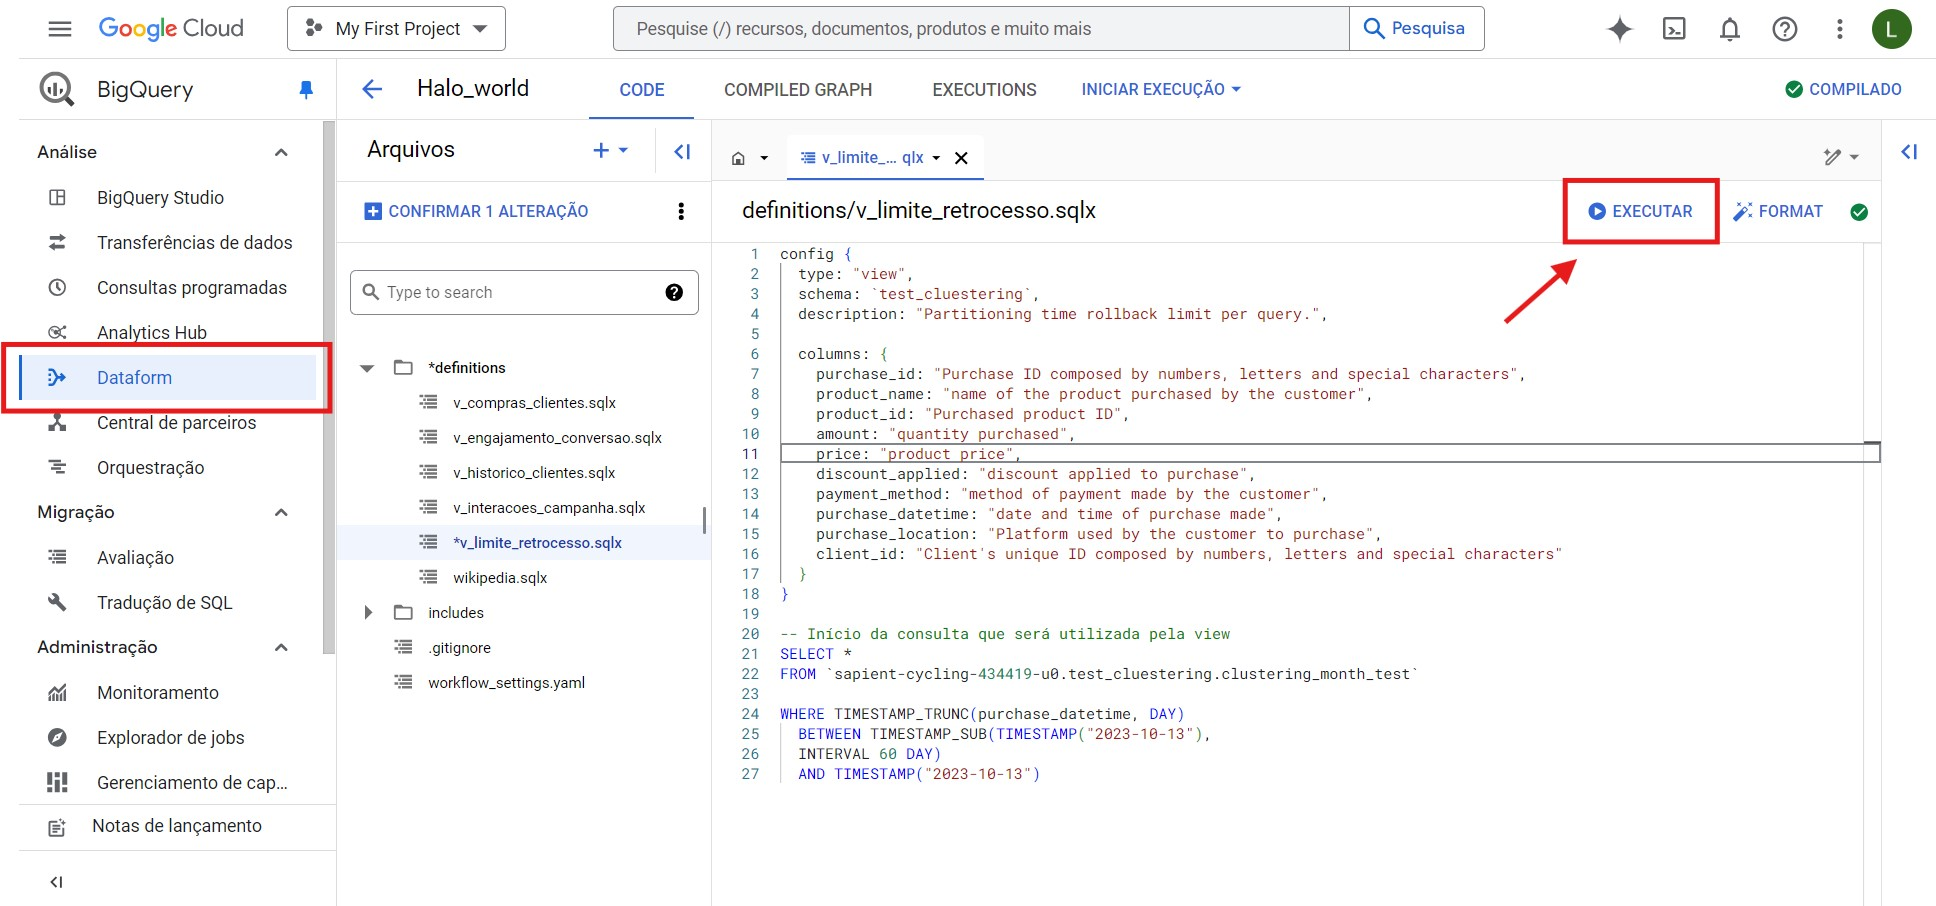
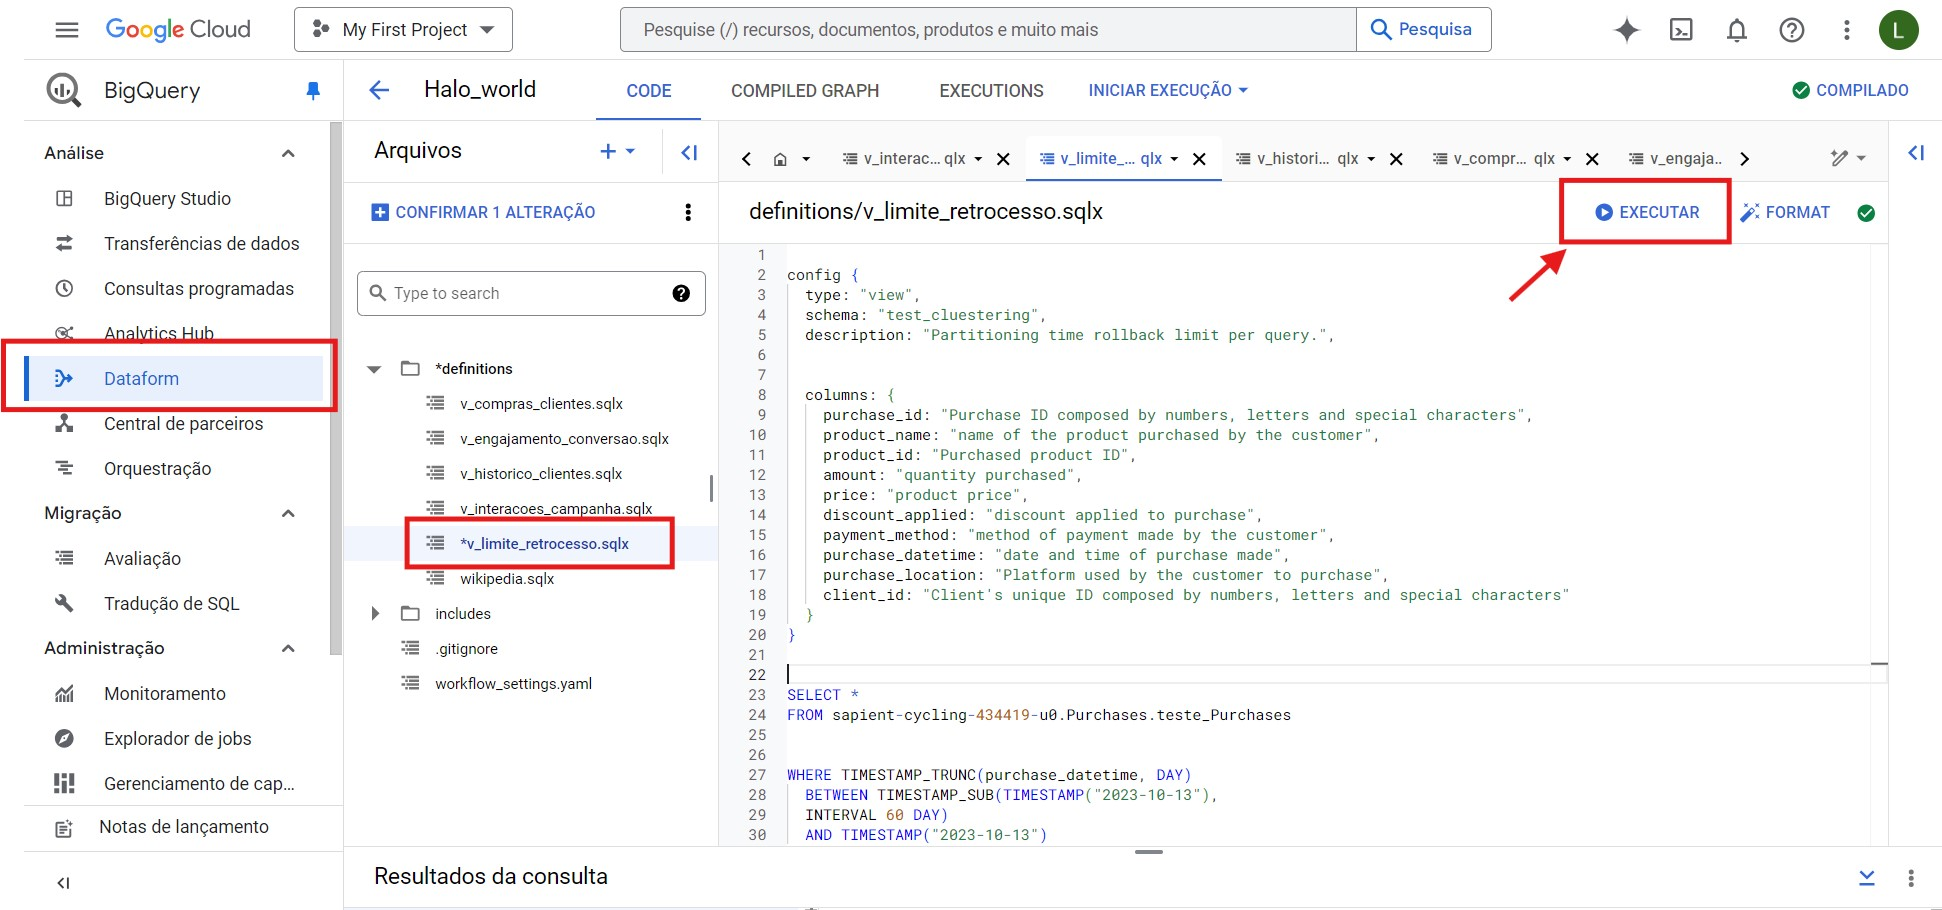
docs:updated the image and view code

diff --git a/Sprints/SP02-1410/SP02-1410_RelatorioFinal.md b/Sprints/SP02-1410/SP02-1410_RelatorioFinal.md
@@ -39,13 +39,12 @@ Outra maneira de limitar o usuário de realizar queries é criando uma VIEW dire
 
 ```
 -- Início da consulta que será utilizada pela view
-
 SELECT *  -- Seleciona todas as colunas da tabela
-FROM `sapient-cycling-434419-u0.test_cluestering.clustering_month_test`  -- Define a tabela específica de onde os dados serão extraídos
+FROM sapient-cycling-434419-u0.Purchases.teste_Purchases -- Define a tabela específica de onde os dados serão extraídos
 
--- Filtra as compras realizadas dentro de um intervalo de 60 dias (02 meses)
+-- Filtra as compras realizadas dentro de um intervalo de 60 dias
 WHERE TIMESTAMP_TRUNC(purchase_datetime, DAY)  -- Trunca a data de compra para considerar apenas a parte do dia (ignorando horas e minutos)
-  BETWEEN TIMESTAMP_SUB(TIMESTAMP("2023-10-13"),  -- Define o final do intervalo como 13 de outubro de 2023 
+  BETWEEN TIMESTAMP_SUB(TIMESTAMP("2023-10-13"),  -- Define o final do intervalo como 13 de outubro de 2023
   INTERVAL 60 DAY)  -- Subtrai 60 dias a partir de 13 de outubro de 2023 para definir o início do intervalo
   AND TIMESTAMP("2023-10-13")  -- Define o final do intervalo como exatamente o dia 13 de outubro de 2023
 
